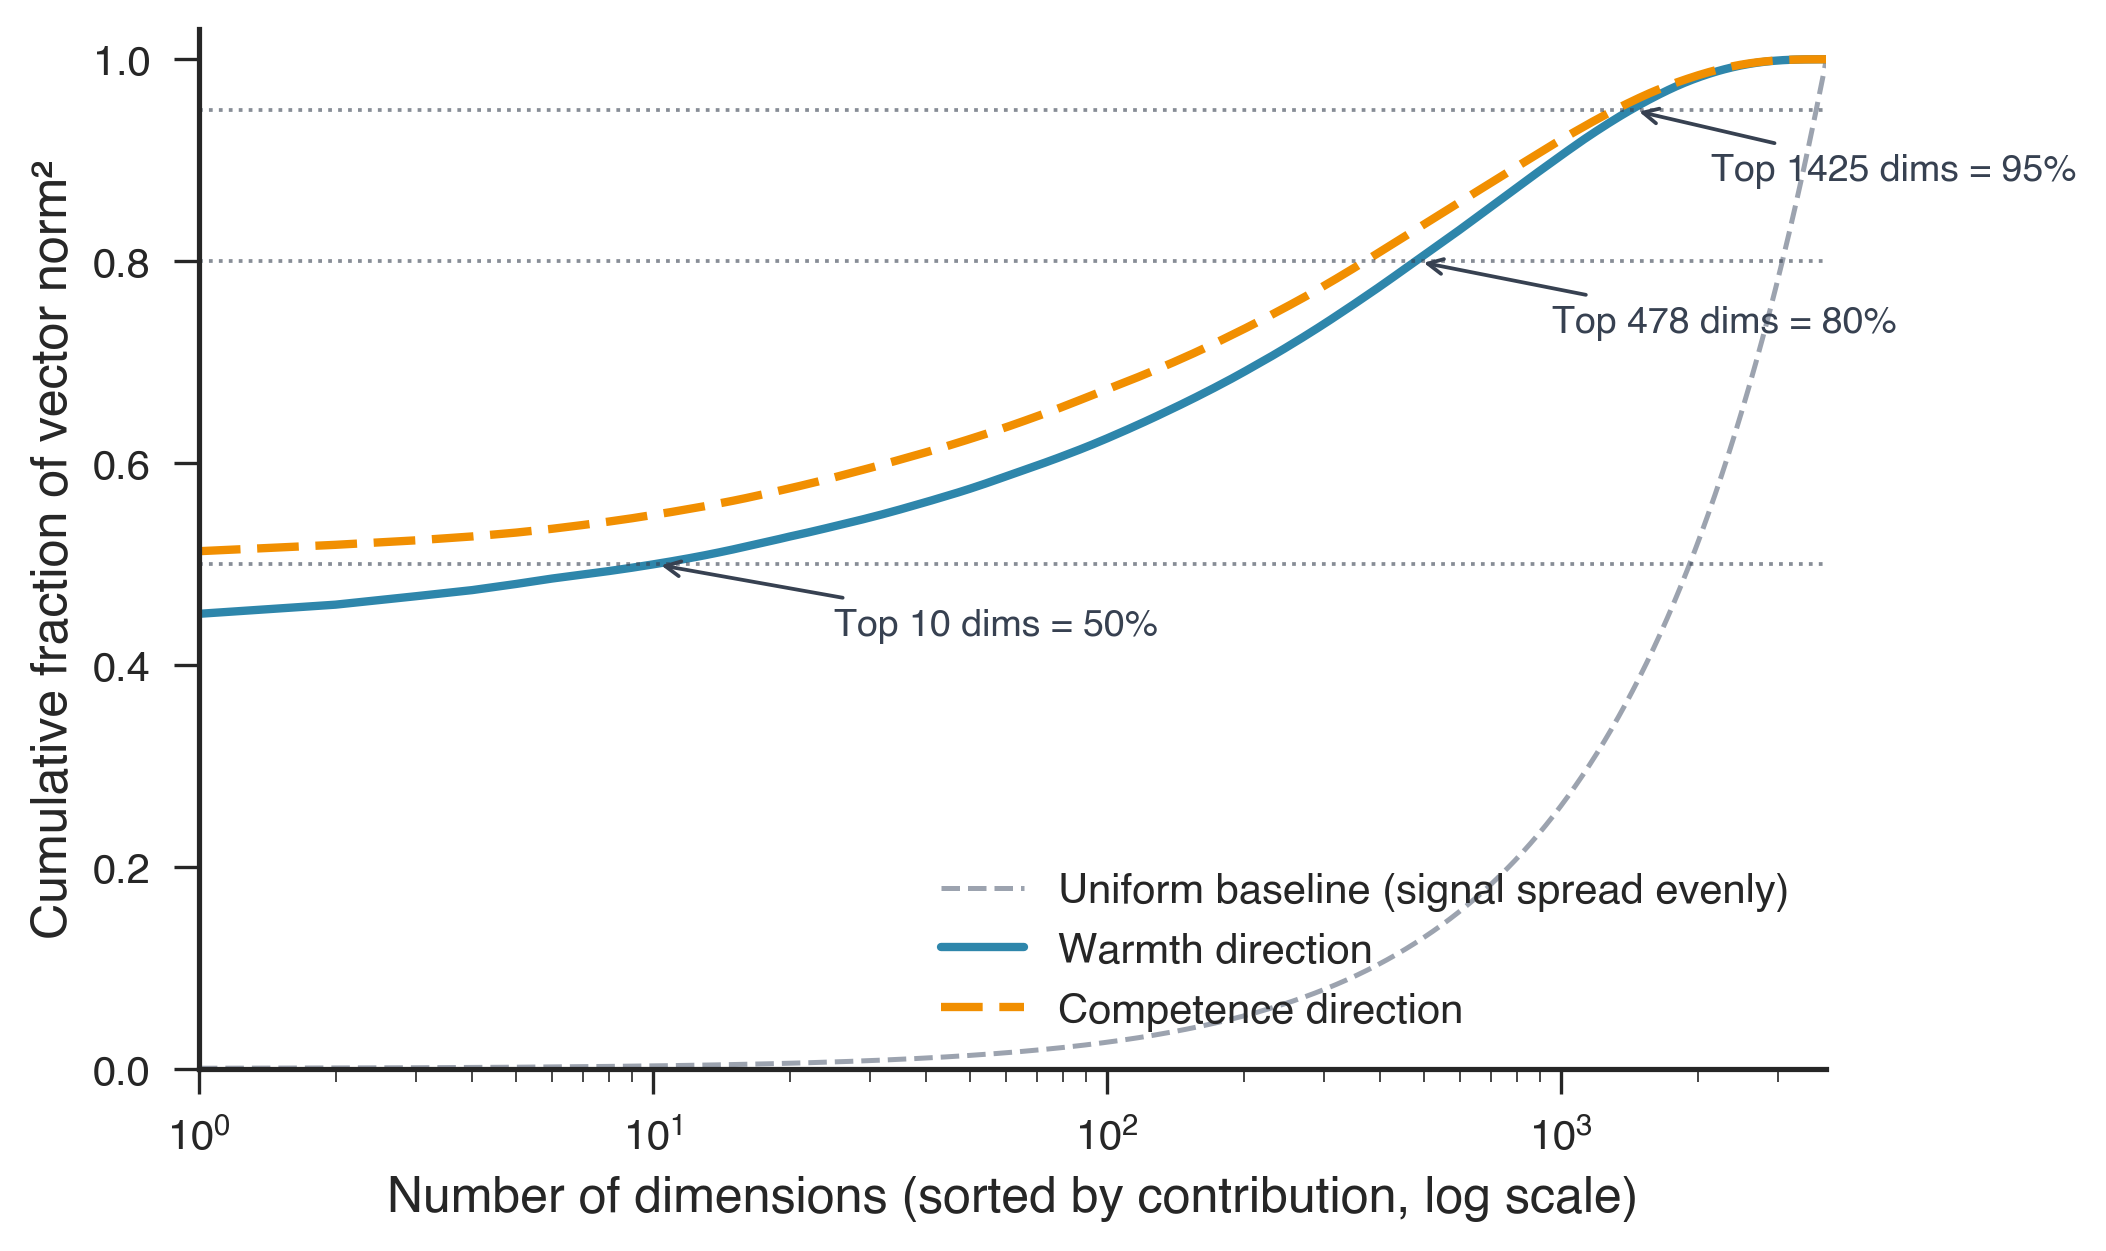
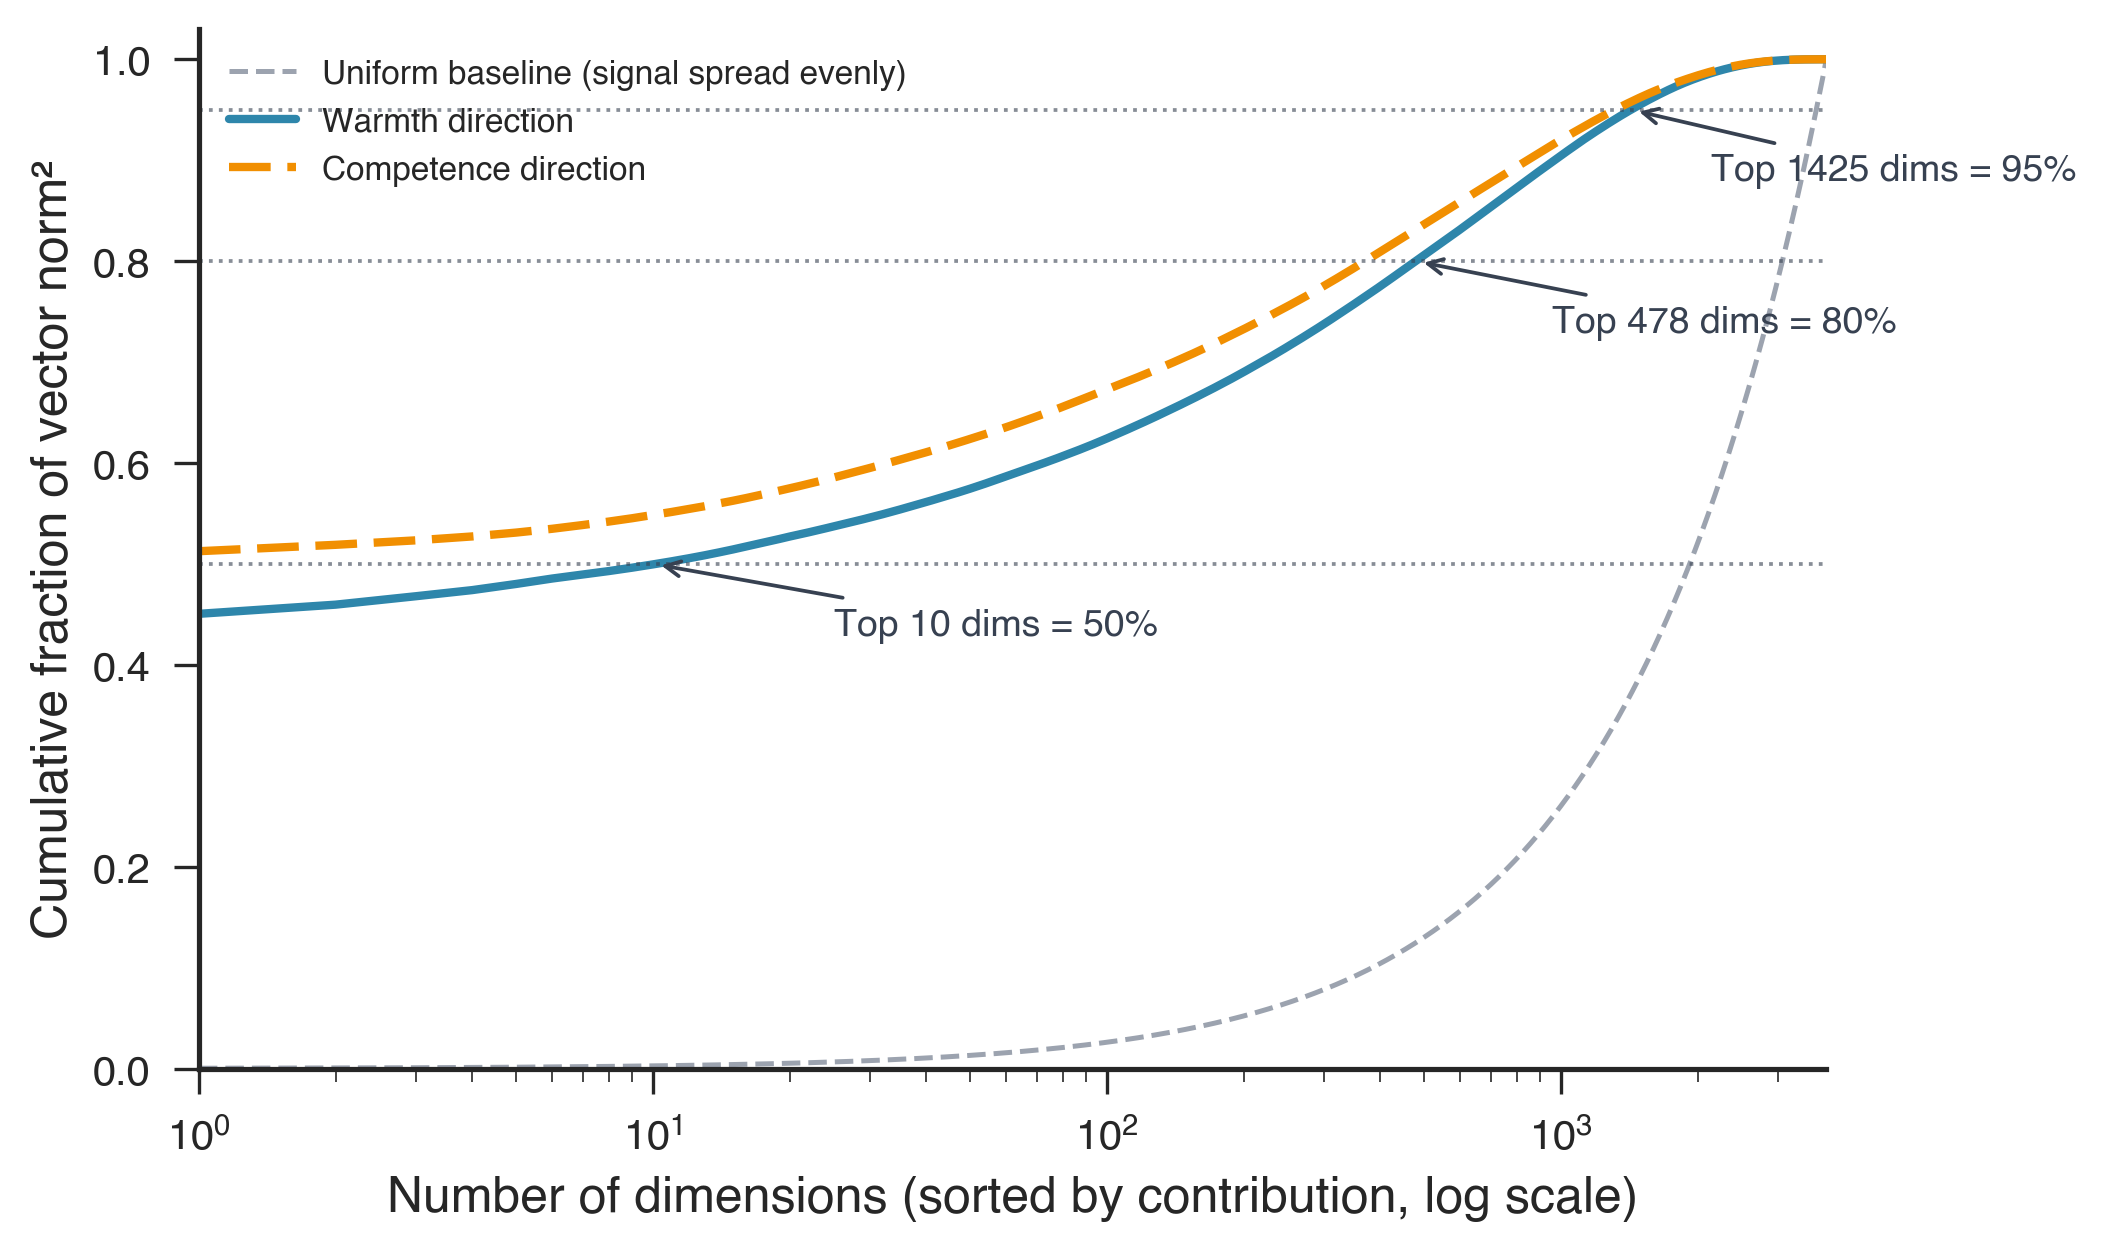
Polish fig2 and fig3; expand fig2 caption with statistics
- fig2: remove inline stats box; print stats to stdout instead; cleaner figure
- fig3: legend moved to upper-left, fontsize 8
- report: Figure 2 caption now includes σ, z-score, and p-value for both axes

Changed region(s): [[0.4321, 0.6859, 0.8333, 0.8417], [0.1235, 0.0312, 0.4321, 0.1559], [0.0926, 0.1247, 0.1235, 0.1559]]

diff --git a/paper/figures/generate_figures.py b/paper/figures/generate_figures.py
@@ -191,19 +191,10 @@ def fig2_random_baseline(data: dict, n_random: int = 1000, seed: int = 20260527)
         z_score = actual / null_std
         n_exceed = int((null >= actual).sum())
         p_val = max(n_exceed, 1) / len(null)
+        print(f"  [{axis_label}] null σ={null_std:.2f}  d={actual:.2f}  z={z_score:.1f}  p<{p_val:.3f}  exceed={n_exceed}/{len(null)}")
         ax.set_xlabel("Cohen's $d$")
         ax.set_ylabel("Density" if ax is axes[0] else "")
         ax.set_title(f"Null distribution — {axis_label} axis")
-        ax.text(
-            0.03, 0.94,
-            f"Null: $\mu$ = 0, $\sigma$ = {null_std:.2f}\n"
-            f"Our direction: $d$ = {actual:.2f}\n"
-            f"$z$-score: {z_score:.1f}\n"
-            f"$p$ < {p_val:.3f} ({n_exceed}/{len(null)} random dirs exceed)",
-            transform=ax.transAxes, ha="left", va="top",
-            fontsize=9, color="#374151",
-            bbox=dict(boxstyle="round,pad=0.3", facecolor="white", edgecolor="#D1D5DB"),
-        )
 
     fig.tight_layout()
     save("fig2_random_baseline")
@@ -257,7 +248,7 @@ def fig3_lorenz_concentration(data: dict) -> None:
     ax.set_ylim(0, 1.03)
     ax.set_xlabel("Number of dimensions (sorted by contribution, log scale)")
     ax.set_ylabel("Cumulative fraction of vector norm²")
-    ax.legend(loc="lower right", framealpha=0.9)
+    ax.legend(loc="upper left", fontsize=8, framealpha=0.9)
 
     save("fig3_lorenz_concentration")
 

diff --git a/paper/2026-06-16_concept_stories_probe_findings.md b/paper/2026-06-16_concept_stories_probe_findings.md
@@ -239,7 +239,7 @@ This subtraction yields a direction in the 3,840-dimensional space that points f
 
 ![Empirical null distribution of Cohen's d for 1,000 random unit directions.](figures/fig2_random_baseline.png)
 
-**Figure 2.** Empirical null distribution of Cohen's d obtained from 1,000 randomly sampled unit vectors in the 3,840-dimensional residual-stream space (grey density, centred at zero). The red vertical line marks the Cohen's d achieved by our direction vector for each axis. Neither the warmth direction (d = 2.70) nor the competence direction (d = 2.83) is approached by any random direction, confirming that the extracted directions capture structured, condition-specific variance.
+**Figure 2.** Empirical null distribution of Cohen's d obtained from 1,000 randomly sampled unit vectors in the 3,840-dimensional residual-stream space (grey density, centred at zero). The red vertical line marks the Cohen's d achieved by our direction vector for each axis. For the warmth axis the null distribution has σ = 0.69; our direction (d = 2.70) corresponds to z = 3.9 (p < .001; 0 of 1,000 random directions exceeded it). For the competence axis the null has σ = 0.76; our direction (d = 2.83) corresponds to z = 3.7 (p < .001; 0 of 1,000 exceeded). Neither direction is approached by any sampled random direction, confirming that the extracted directions capture structured, condition-specific variance.
 
 **5. Meaning of a "projection score".** Given the warmth direction, any story can be projected onto it to produce a scalar value. A high score indicates that the model's internal state while reading that story resembles the average state observed when reading high-warmth material. All story-level scores reported in §5 are these projections.
 